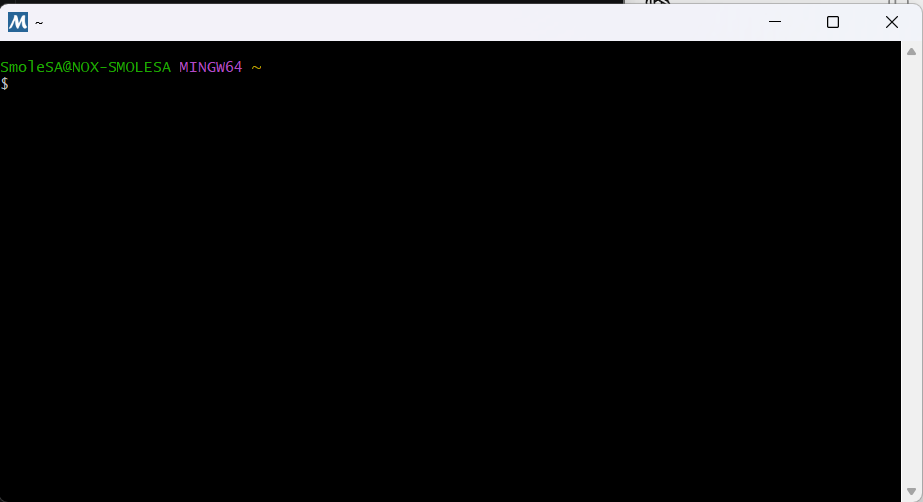
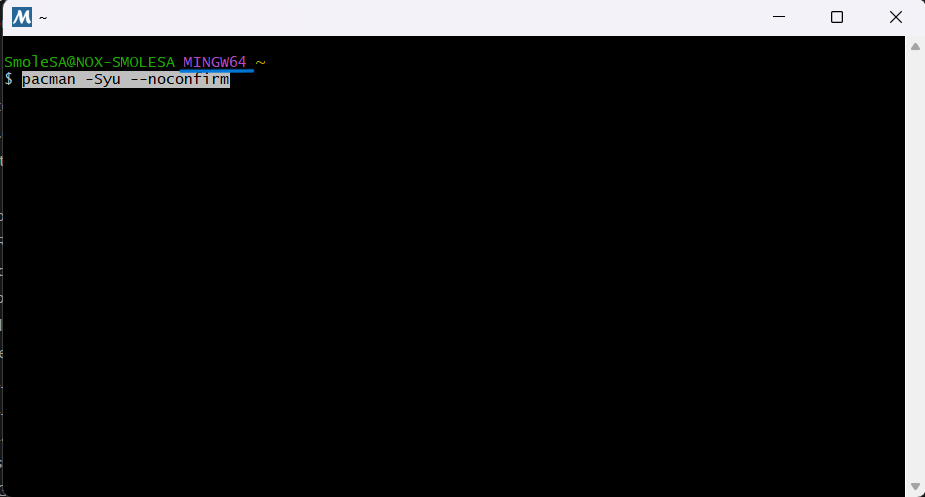
Modificado el "Como instalar el entorno" para clarificar pasos y añadida cuenta GitHub.

Changed region(s): [[0.0, 0.0, 1.0, 1.0], [0.0, 0.996, 0.0303, 1.0]]

diff --git a/documentos/como_instalar_el_entordo_de_desarrollo.md b/documentos/como_instalar_el_entordo_de_desarrollo.md
@@ -29,11 +29,11 @@ Durante la instalación, se recomienda marcar:
 
 ## Comprobar instalación
 
-1. Para abrir un terminal PowerShell, pulsamos la tecla de Windows (o pulsamos en inicio) y escribimos power.
+1. Para abrir un terminal PowerShell, pulsamos la tecla de Windows (o pulsamos en inicio) o en la barra de busquedad inferior y escribimos "power".
 
 ![alt text](img/AbrirPowerWindows.png)
 
-1. escribiendo esto en la terminal:
+2. escribiendo esto en la terminal:
 
 ```powerShell
 code
@@ -41,7 +41,7 @@ code
 
 ![imagen del terminal PowerShell](img/powerShell.png)
 
-1. Si está instalado, se abrirá el programa Visual Studio Code.
+3. Si está instalado, se abrirá el programa **Visual Studio Code**.
 
 ![alt text](img/VsCodeOpen.png)
 ---
@@ -54,9 +54,7 @@ Descargar desde:
 
 <https://github.com/msys2/msys2-installer/releases/download/2026-06-11/msys2-x86_64-20260611.exe>
 
-![alt text](img/MSYS2.png)
-
-Instalar en la ruta por defecto:
+Instalar en la ruta por **defecto**:
 
 ```text
 C:\msys64
@@ -66,36 +64,32 @@ C:\msys64
 
 # Paso 3 — Actualizar MSYS2 MINGW64
 
-**Abrir**:
+## Abrir:
 
-Para abrir MSYS2 MINGW64, pulsamos la tecla de Windows (o pulsamos en inicio) y escribimos "MSYS2 MINGW64".
+Para abrir **MSYS2 MINGW64**, pulsamos la tecla de Windows (o pulsamos en inicio, o en la barra de busqueda inferior) y escribimos "MSYS2 MINGW64". 
+
+**NOTA**: Es importante fijarse en abrir la aplicación indicada, no otras con nombres similares.
 
 ![alt text](img/MSYS2_MINGW64.png)
 
-**Ejecutar**:
+**NOTA**: Para poder pegar el texto en este terminal, usamos click derecho y seleccionamos "paste".
 
-![alt text](img/MSYS2_MINGW64_Terminal.png)
+## Ejecutar:
 
 ```bash
 pacman -Syu --noconfirm
 ```
+![alt text](img/MSYS2_MINGW64_Terminal.png)
 
-Puede pedir confirmaciones, escribimos "y" y pulsamos enter. Puede pedir cerrar la terminal y volver a abrirla.
+Ejecutar nuevamente, hasta que no queden actualizaciones pendientes.
 
-![alt text](img/terminalMSYS2_ConfirmeY.png)
-
-Después ejecutar nuevamente:
-
-```bash
-pacman -Syu
-```
-
-hasta que no queden actualizaciones pendientes.
+![alt text](img/SyuComplete.png)
 
 ---
 
 # Paso 4 — Instalar compilador C++, make y Raylib
 
+## Instalar
 En la terminal **MSYS2 MINGW64** ejecutar:
 
 ```bash
@@ -103,6 +97,8 @@ pacman -S --noconfirm --needed mingw-w64-x86_64-toolchain
 pacman -S --noconfirm --needed make
 pacman -S --noconfirm --needed mingw-w64-x86_64-raylib
 ```
+
+![alt text](img/InstallGcc.png)
 
 Esto instala:
 
@@ -116,7 +112,7 @@ Esto instala:
 ## Comprobar instalación
 
 ```bash id="m2"
-echo "=== G++ VERSION ===" && g++ --version
+echo -e "\n=== G++ VERSION ===" && g++ --version
 echo -e "\n=== MAKE VERSION ===" && make --version
 echo -e "\n=== RAYLIB VERSION ===" && pkg-config --modversion raylib
 ```
@@ -127,7 +123,7 @@ devería aparecer algo como esto:
 
 ---
 
-# Paso 5 — Añadir compilador al PATH (opcional pero recomendado)
+# Paso 5 — Añadir compilador al PATH de Windows
 
 ## Añadir al PATH del sistema
 
@@ -135,17 +131,21 @@ devería aparecer algo como esto:
 C:\msys64\mingw64\bin
 ```
 
-Para ello, abrimos una terminal de **PowerShell** tal y como se muestra a continuación:
+Para ello, abrimos una terminal de **PowerShell** tal y como se indicó anteriormente:
 
-Y pegamos:
+![alt text](img/AbrirPowerWindows.png)
+
+Y pegamos y pulsamos enter:
 
 ```powershell
 [Environment]::SetEnvironmentVariable("Path", [Environment]::GetEnvironmentVariable("Path", [EnvironmentVariableTarget]::Machine) + ";C:\msys64\mingw64\bin", [EnvironmentVariableTarget]::Machine)
 ```
 
-## Para comprobar
+![alt text](img/PowerShellPath.png)
 
-Escribimos en PowerShell:
+## Para comprobar que funciona correctamente
+
+Escribimos en **PowerShell**:
 
 ```bash
 g++ --version
@@ -179,7 +179,41 @@ Para visualizar errores directamente en el editor.
 
 ---
 
-# Paso 7 - Configurar para usar la terminal correcta en VSCode
+# Paso 7 - Añadir git a VSCode
+
+## descargar e intalasar git 
+https://github.com/git-for-windows/git/releases/download/v2.55.0.windows.1/Git-2.55.0-64-bit.exe
+
+Tras la instalación, cerrar y volver a abrir Visual Studio Code. Nos debe aparecer estas opciones si está correctamente instalado:
+
+![alt text](img/VisualStudioGit.png)
+
+## Registrarse en Github
+
+https://docs.github.com/es/get-started/start-your-journey/creating-an-account-on-github#signing-up-for-a-new-personal-account
+
+## Hacer un fork del proyecto
+
+Esto significa crear una copia que depende del proyecto principal (En este caso) sobre la que podemos trabajar por nuestra cuenta.
+
+1. pulsamos en Fork
+![alt text](img/fork/pulsarFork.png)
+
+2. Completamos la creación en nuestra copia del repositorio en nuestra cuenta de github.
+![alt text](img/fork/crearFork.png)
+
+## Clonar el repositorio en VSCode
+
+En Github, en nuestro nuevo fork del repositorio, copiamos la url:
+![alt text](img/fork/copiarUrlFork.png)
+
+vamos a **Visual Studio Code** y pulsamos en la opción de clonar
+
+![alt text](img/VisualStudioGit.png)
+
+---
+
+# Paso 8 - Configurar para usar la terminal correcta en VSCode
 
 vamos a [configurar](vscode://settings/terminal.integrated.profiles.windows) y pulsamos en el botón que indica la imagen:
 
@@ -200,8 +234,22 @@ Ahí, añadimos al final el siguiente texto:
 
 ![alt text](img/añadirRutaTerminal.png)
 
-Modificamos el terminal por defecto:
+## Modificamos el terminal por defecto:
+Podemos modificar que terminal por defecto usará Visual Studio Code. Tenemos dos alternativas para configurarlo, de forma visual o manual.
 
+### De forma Visual
+Abrimos la terminal, si no está ya abierta (Atajo: **Ctrl + ñ**)
+![alt text](img/openTerminal.png)
+
+Pulsamos en la flecha, para seleccionar la opción de "*select default profile*":
+
+![alt text](img/openTerminalDefault.png)
+
+Elegimos "*MSYS2 MINGW64*":
+
+![alt text](img/selecTerminalDefault.png)
+
+### De forma Manual
 ```JSON
 "MSYS2 MINGW64"
 ```
@@ -213,11 +261,13 @@ Modificamos el terminal por defecto:
     "terminal.integrated.defaultProfile.windows": "MSYS2 MINGW64"
 ```
 
-# Paso 8 — Compilar
+---
+
+# Paso 9 — Compilar
 
 ## Con Make
 
-Para compilar directamente usando Make, en un terminar (en la ruta del proyecto) escribimos:
+Para compilar directamente usando Make, en el terminar de **Visual Studio Code** (en la ruta del proyecto) escribimos:
 
 ```bash
 make
@@ -225,35 +275,40 @@ make
 
 ![alt text](img/CompilarConMake.png)
 
+![alt text](img/CompilarConMake_Resultado.png)
+
 ## Manualmente
 
 Desde terminal :
 
 ```bash
-g++ src/main.cpp -o game -lraylib -lopengl32 -lgdi32 -lwinmm
+g++ src/main.cpp -o bin/game -lraylib -lopengl32 -lgdi32 -lwinmm
 ```
+
+![alt text](img/CompilacionManual_Resultado.png)
 
 ---
 
-# Paso 9 — Ejecutar
-
+# Paso 10 — Ejecutar
+Para ejecutar directamente usando Make, en el terminar de **Visual Studio Code** (en la ruta del proyecto) escribimos:
 ## Con Make
 
 ```bash
 make run
 ```
+![alt text](img/EjecutarConMake.png)
 
+![alt text](img/Run_Resultado.png)
 ## Manualmente
 
 Ejecutar:
 
 ```bash
-./game.exe
+./bin/game.exe
 ```
+![alt text](img/EjecutarManualmente.png)
 
 Si todo ha ido bien, aparecerá una ventana con:
-
-![alt text](img/Run.png)
 
 ---
 
@@ -297,6 +352,11 @@ Comprobar flags:
 -lraylib -lopengl32 -lgdi32 -lwinmm
 ```
 
+## Error al ejecutar el .exe
+"*No se encuentra la libreria Raylib*"
+
+Seguramente nos hemos añadido el PATH.
+
 ---
 
 # Entorno listo
@@ -311,6 +371,5 @@ Si todo funciona correctamente, ya se puede comenzar a desarrollar videojuegos 2
 
 Durante este curso:
 
-- Usaremos siempre MINGW64
-- Todo el código se compila con make
-- No se usan comandos largos de g++
+- Usaremos siempre la terminal de Visual Studio Code (MINGW64)
+- Todo el código se compila y ejecuta con make